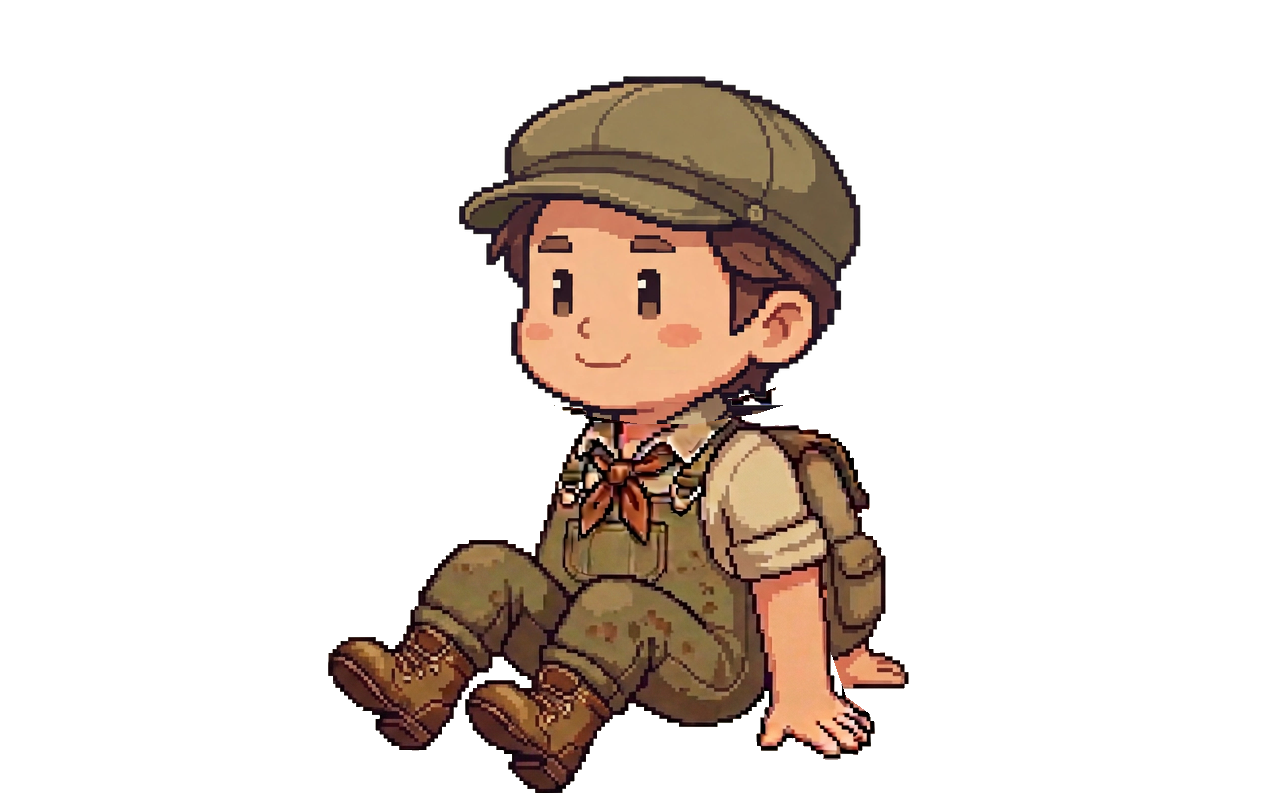
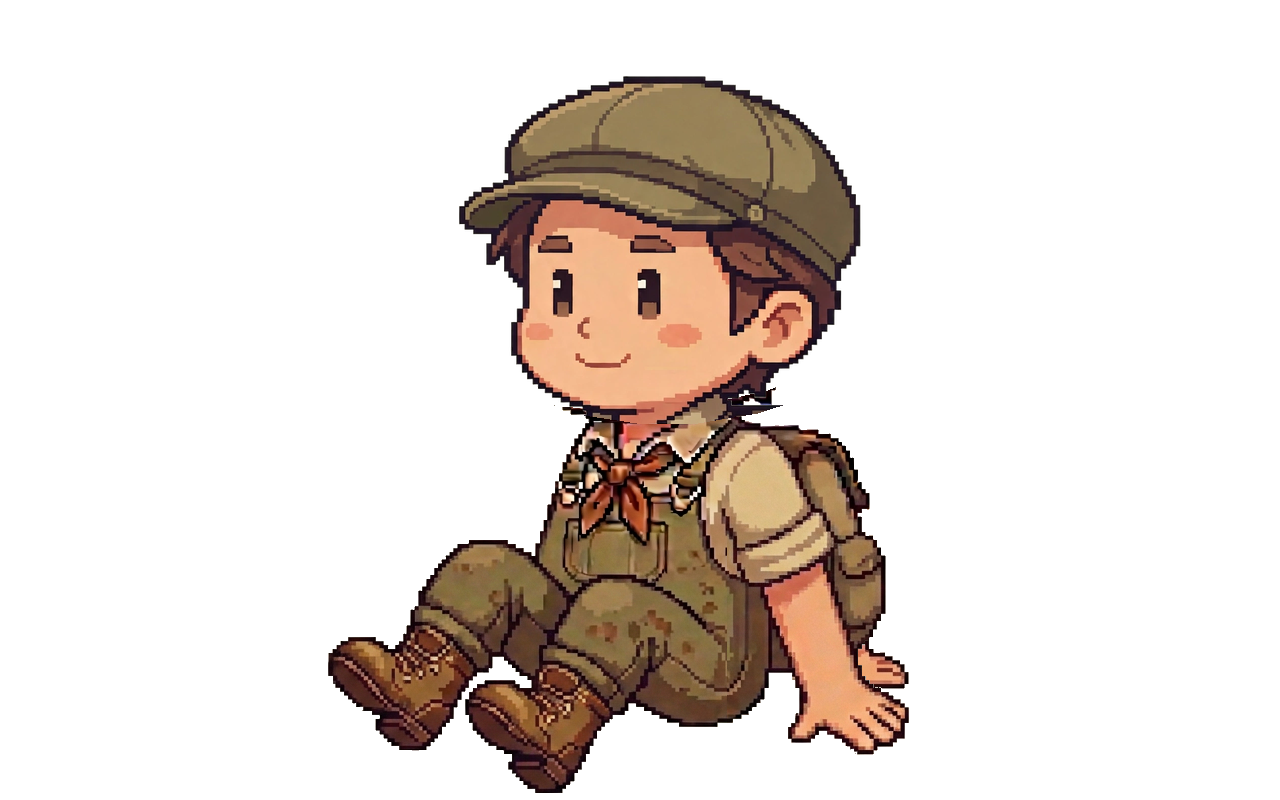
Move seated front supporting hand farther back

Changed region(s): [[0.5625, 0.625, 0.7188, 0.9688]]

diff --git a/preview/app.js b/preview/app.js
@@ -1750,7 +1750,7 @@
   const characterShadowMasks=new WeakMap();
   const idleBowController=window.PlayerIdleBow.create();
   const idleBowFrames=Object.fromEntries(['front','back'].map(side=>[side,
-    ['transition','concept','sit-lowering','sit-nearly','sitting'].map(pose=>{const image=new Image();image.dataset.playerIdleBow='true';image.src=`./assets/player-idle-${side}-${pose}.png?v=9`;return image;})]));
+    ['transition','concept','sit-lowering','sit-nearly','sitting'].map(pose=>{const image=new Image();image.dataset.playerIdleBow='true';image.src=`./assets/player-idle-${side}-${pose}.png?v=10`;return image;})]));
   let idleBowAmount=0, idleSitAmount=0, idleBowSprite=null;
   const idleBlend=document.createElement('canvas');idleBlend.width=512;idleBlend.height=800;
   idleBlend.dataset.playerIdleBow='true';
@@ -1977,7 +1977,7 @@
       ctx.beginPath();ctx.ellipse(x,y-.45*character.scale,4.6*character.scale,.8*character.scale,0,0,Math.PI*2);ctx.fill();
       if(seatWeight>0) {
         // Contact patches follow the illustrated hip and supporting palms, including mirrors.
-        const contacts=back?[[600,778,2.5],[395,774,1.3],[780,795,1.3]]:[[680,725,2.5],[815,751,1.3],[875,677,1.1]];
+        const contacts=back?[[600,778,2.5],[395,774,1.3],[780,795,1.3]]:[[680,725,2.5],[850,751,1.3],[875,677,1.1]];
         const dir=mirror?-1:1;ctx.globalAlpha=seatWeight;
         for(const [px,py,r] of contacts) {
           const cx=x+dir*(px-640)*width/1280,cy=y+(py-800)*height/800;

diff --git a/preview/index.html b/preview/index.html
@@ -17,7 +17,7 @@
   <script src="./cloud-layout.js?v=1" defer></script>
   <script src="./tree-shadow.js?v=1" defer></script>
   <script src="./player-idle-bow.js?v=6" defer></script>
-  <script src="./app.js?v=sky-242" defer></script>
+  <script src="./app.js?v=sky-243" defer></script>
   <script src="./preview-modes.js?v=2" defer></script>
   <script src="./editor-camera.js?v=7" defer></script>
   <script src="./terrain-tools.js?v=107" defer></script>

diff --git a/tools/build_player_idle_sitting.py b/tools/build_player_idle_sitting.py
@@ -23,15 +23,26 @@ for view in ('front','back'):
         else:
             file={'front':{'sitting':'sit-front-hands-corrected.png','nearly':'sit-redraw-near-front.png'},
                   'back':{'sitting':'sit-redraw-final-back.png','nearly':'sit-redraw-near-back.png'}}[view][frame]
-            if view=='front' and frame=='nearly':
-                # Preserve the bent legs but use the matching occluded far arm from
-                # the corrected seated frame. This avoids a second visible forearm.
+            if view=='front':
+                # Reposition the near supporting arm while keeping the far hand
+                # behind it. Both poses use this same patch, avoiding arm jumps.
+                original=Image.open(ART/'sit-front-hands-corrected.png').convert('RGB')
+                arm=Image.open(ART/'sit-front-hand-back-study.png').convert('RGB')
                 pose=Image.open(ART/file).convert('RGB')
-                corrected=Image.open(ART/'sit-front-hands-corrected.png').convert('RGB')
-                if pose.size!=corrected.size:raise ValueError('front study coordinates differ')
+                if pose.size!=original.size or arm.size!=original.size:raise ValueError('front study coordinates differ')
+                # Recover the previously visible far hand only through the new
+                # foreground arm's background: it stays correctly occluded.
+                oldpx=original.load();newpx=arm.load()
+                def background(rgb):
+                    r,g,b=rgb
+                    return r>210 and g>195 and b>175 and abs(r-g)<35 and abs(g-b)<40
+                for yy in range(635,685):
+                    for xx in range(840,930):
+                        if background(newpx[xx,yy]) and not background(oldpx[xx,yy]):
+                            newpx[xx,yy]=oldpx[xx,yy]
                 mask=Image.new('L',pose.size)
-                ImageDraw.Draw(mask).polygon([(840,420),(925,420),(985,500),(985,755),(895,755),(886,710),(859,690),(840,635)],fill=255)
-                pose.paste(corrected,(0,0),mask);tmp=ART/'.front-nearly-corrected.png';pose.save(tmp)
+                ImageDraw.Draw(mask).polygon([(740,420),(900,420),(1020,520),(1020,760),(740,760)],fill=255)
+                pose.paste(arm,(0,0),mask);tmp=ART/'.front-arm-corrected.png';pose.save(tmp)
                 try: im,box=extract(tmp)
                 finally: tmp.unlink()
             else:

diff --git a/tools/test_player_idle_sprites.py b/tools/test_player_idle_sprites.py
@@ -47,4 +47,14 @@ for pose in ('sitting','sit-nearly'):
     im=Image.open(root/f'preview/assets/player-idle-front-{pose}.png').convert('RGBA')
     assert sum(map(skin,im.crop((925,560,960,715)).getdata()))==0, 'duplicate far forearm must be occluded'
     assert sum(map(skin,im.crop((840,640,910,690)).getdata()))>100, 'far supporting hand remains visible'
+# The near supporting hand must move backward on the image, without shifting
+# the whole body or losing the separately occluded far hand.
+def hand_mean_x(image, dx, dy):
+    xs=[x for y in range(710+dy,750+dy) for x in range(760+dx,930+dx) if skin(image.getpixel((x,y)))]
+    assert xs
+    return sum(xs)/len(xs)-dx
+old=Image.open(root/'preview/assets/character-redraw/sit-front-hands-corrected.png').convert('RGBA')
+for pose in ('sitting','sit-nearly'):
+    image=Image.open(root/f'preview/assets/player-idle-front-{pose}.png').convert('RGBA')
+    assert hand_mean_x(image,-13,6)>hand_mean_x(old,0,0)+20, 'supporting hand should be farther back'
 print('Selected idle sprites: size, transparency, fixed boots, browser/Android parity: OK')

diff --git a/app/src/main/java/dev/retrobit/gtlauncher/WeatherSkyView.java b/app/src/main/java/dev/retrobit/gtlauncher/WeatherSkyView.java
@@ -1118,7 +1118,7 @@ public final class WeatherSkyView extends View {
             canvas.drawOval(new RectF(x-4.6f*characterScale,y-1.25f*characterScale,x+4.6f*characterScale,y+.35f*characterScale),paint);
             if(seatWeight>0) {
                 float[][] contacts=back?new float[][]{{600,778,2.5f},{395,774,1.3f},{780,795,1.3f}}
-                        :new float[][]{{680,725,2.5f},{815,751,1.3f},{875,677,1.1f}};
+                        :new float[][]{{680,725,2.5f},{850,751,1.3f},{875,677,1.1f}};
                 paint.setColor(Color.argb(Math.round(97*seatWeight),12,23,30));
                 for(float[] p:contacts) {
                     float cx=x+(mirror?-1:1)*(p[0]-640)*width/1280f,cy=y+(p[1]-800)*height/800f;

diff --git a/docs/player-idle-bow.md b/docs/player-idle-bow.md
@@ -17,3 +17,5 @@ Percobaan menyusun dan memutar potongan itu menghasilkan sambungan pinggul yang 
 Revisi studi tersedia sebagai `sit-redraw-repaired-front-v2.png` dan `sit-redraw-final-back.png`: sambungan pinggul telah digambar ulang, dan lengan tambahan di sisi kiri studi depan dihilangkan; kedua gambar memperlihatkan dua tangan bertumpu. Revisi pose duduk dan dua frame lutut tertekuk kini dipakai di preview dan Android. Gambar ditempatkan tanpa mengubah ukuran gambar per pose, dan kepala/topi diambil dari piksel sprite berdiri; titik pantat dan kontak tangan disesuaikan untuk masing-masing sisi. Badan serta sepatu tetap gambar ulang, bukan bagian sprite asli yang identik, dan panjang kaki serta sambungan belum terverifikasi piksel demi piksel. Frame jongkok masih berasal dari studi lama, transisi masih crossfade, dan Android belum diuji build atau perangkat.
 
 Perbaikan tangan tampak depan: lengan dekat tetap utuh, sedangkan lengan jauh tertutup badan/ransel dan hanya telapak yang tampak. Patch yang sama dipakai di frame lutut tertekuk, dengan titik kontak bayangan diperbarui. Crossfade antara frame utuh tetap dapat menampilkan sedikit bayangan ganda sesaat saat berubah pose; ini bukan rig anatomis. Aset preview dan Android sama, tetapi Android belum diuji lewat build/perangkat.
+
+Tangan dekat tampak depan digeser ke belakang dengan lengan bawah miring, sementara telapak tangan jauh tetap terlihat sebagian di belakang lengan/ransel. Patch yang sama dipakai untuk pose duduk dan lutut tertekuk; titik bayangan kontak mengikuti posisi baru. Kepala/topi dan bagian tubuh lain tidak digeser. Uji aset memeriksa posisi relatif tangan, tidak adanya lengan jauh rangkap, serta kesamaan preview/Android; verifikasi Android pada perangkat masih diperlukan.
